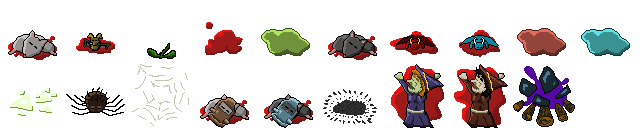
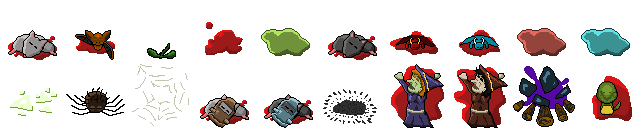
ADD Snake (WIP)

Changed region(s): [[0.9062, 0.5938, 1.0, 0.9375], [0.0938, 0.2188, 0.1875, 0.4688]]

diff --git a/src/WitchBlastGame.cpp b/src/WitchBlastGame.cpp
@@ -39,6 +39,7 @@
 #include "ItemEntity.h"
 #include "WitchEntity.h"
 #include "CauldronEntity.h"
+#include "SnakeEntity.h"
 #include "ArtefactDescriptionEntity.h"
 #include "PnjEntity.h"
 #include "TextEntity.h"
@@ -91,6 +92,7 @@ WitchBlastGame::WitchBlastGame():
   ImageManager::getImageManager()->addImage("media/bubble.png");
   ImageManager::getImageManager()->addImage("media/witch.png");
   ImageManager::getImageManager()->addImage("media/cauldron.png");
+  ImageManager::getImageManager()->addImage("media/snake.png");
 
   ImageManager::getImageManager()->addImage("media/butcher.png");
   ImageManager::getImageManager()->addImage("media/giant_slime.png");
@@ -446,6 +448,11 @@ void WitchBlastGame::updateRunningGame()
         if (gameState == gameStatePlaying && !isPausing) player->selectNextShotType();
       }
 
+      if (event.key.code == input[KeySpell])
+      {
+        if (gameState == gameStatePlaying && !isPausing) player->castSpell();
+      }
+
       if (event.key.code == input[KeyFire])
       {
         if (gameState == gameStatePlaying && !isPausing) firingDirection = player->getFacingDirection();
@@ -788,9 +795,15 @@ void WitchBlastGame::renderDeathScreen()
           monsterSprite.setTextureRect(sf::IntRect(0, 0, 64, 64));
           break;
 
+        case EnemyTypeSnake:
+          monsterSprite.setTexture(*ImageManager::getImageManager()->getImage(IMAGE_SNAKE));
+          monsterSprite.setTextureRect(sf::IntRect(0, 10, 64, 54));
+          dy = 2;
+          break;
+
         case EnemyTypeSlime:
           monsterSprite.setTexture(*ImageManager::getImageManager()->getImage(IMAGE_SLIME));
-          monsterSprite.setTextureRect(sf::IntRect(0, 10, 64, 54));
+          monsterSprite.setTextureRect(sf::IntRect(0, 10, 64, 44));
           break;
 
         case EnemyTypeSlimeRed:
@@ -1144,7 +1157,7 @@ void WitchBlastGame::renderMenu()
       oss << tools::getLabel(inputKeyString[i]) << ": ";
       if (menuKeyIndex == i) oss << tools::getLabel("key_configuration_insert");
       else if (menuKeyIndex > i) oss << tools::getLabel("key_configuration_done");
-      write(oss.str(), 16, xAlign, 285 + i * 32, ALIGN_LEFT, itemColor, app, 1, 1);
+      write(oss.str(), 16, xAlign, 285 + i * 28, ALIGN_LEFT, itemColor, app, 1, 1);
     }
   }
   else
@@ -1796,6 +1809,9 @@ void WitchBlastGame::addMonster(enemyTypeEnum monsterType, float xm, float ym)
   case EnemyTypeBat:
     new BatEntity(xm, ym, false);
     break;
+  case EnemyTypeSnake:
+    new SnakeEntity(xm, ym, SnakeEntity::SnakeTypeNormal, false);
+    break;
   case EnemyTypeEvilFlower:
     new EvilFlowerEntity(xm, ym - 2);
     break;
@@ -2370,6 +2386,7 @@ void WitchBlastGame::saveConfigurationToFile()
   newMap["keyboard_fire_down"] = intToString(input[KeyFireDown]);
   newMap["keyboard_fire_left"] = intToString(input[KeyFireLeft]);
   newMap["keyboard_fire_right"] = intToString(input[KeyFireRight]);
+  newMap["keyboard_spell"] = intToString(input[KeySpell]);
   newMap["keyboard_fire"] = intToString(input[KeyFire]);
   newMap["keyboard_time_control"] = intToString(input[KeyTimeControl]);
   newMap["keyboard_fire_select"] = intToString(input[KeyFireSelect]);
@@ -2391,6 +2408,7 @@ void WitchBlastGame::configureFromFile()
   input[KeyFireLeft]  = sf::Keyboard::Left;
   input[KeyFireRight] = sf::Keyboard::Right;
   input[KeyFire] = sf::Keyboard::Space;
+  input[KeySpell] = sf::Keyboard::Q;
   input[KeyFireSelect] = sf::Keyboard::Tab;
   input[KeyTimeControl] = sf::Keyboard::RShift;
 
@@ -2404,6 +2422,7 @@ void WitchBlastGame::configureFromFile()
   addKey(KeyFireLeft, "keyboard_fire_left");
   addKey(KeyFireRight, "keyboard_fire_right");
   addKey(KeyFire, "keyboard_fire");
+  addKey(KeyFire, "keyboard_spell");
   addKey(KeyTimeControl, "keyboard_time_control");
   addKey(KeyFireSelect, "keyboard_fire_select");
 
@@ -2555,12 +2574,14 @@ void WitchBlastGame::registerLanguage()
     // french keyboard
     input[KeyUp]    = sf::Keyboard::Z;
     input[KeyLeft]  = sf::Keyboard::Q;
+    input[KeySpell]  = sf::Keyboard::A;
   }
   else
   {
     // QWERT / QWERTZ keyboard
     input[KeyUp]    = sf::Keyboard::W;
     input[KeyLeft]  = sf::Keyboard::A;
+    input[KeySpell]  = sf::Keyboard::Q;
   }
 
   input[KeyDown]  = sf::Keyboard::S;

diff --git a/src/SnakeEntity.cpp b/src/SnakeEntity.cpp
@@ -1,0 +1,125 @@
+#include "SnakeEntity.h"
+#include "BoltEntity.h"
+#include "PlayerEntity.h"
+#include "sfml_game/SpriteEntity.h"
+#include "sfml_game/ImageManager.h"
+#include "sfml_game/SoundManager.h"
+#include "Constants.h"
+#include "WitchBlastGame.h"
+
+SnakeEntity::SnakeEntity(float x, float y, snakeTypeEnum snakeType, bool invocated)
+  : EnemyEntity (ImageManager::getImageManager()->getImage(IMAGE_SNAKE), x, y)
+{
+  this->snakeType = snakeType;
+  imagesProLine = 10;
+  this->invocated = invocated;
+
+  //if (snakeType == snakeTypeNormal)
+  {
+    frame = 0;
+    dyingFrame = 8;
+    deathFrame = FRAME_CORPSE_SNAKE;
+    if (invocated) enemyType = EnemyTypeSnake_invocated;
+    else enemyType = EnemyTypeSnake;
+    hp = RAT_HP;
+    creatureSpeed = RAT_SPEED * 0.7f;
+  }
+
+  velocity = Vector2D(creatureSpeed);
+  computeFacingDirection();
+
+  meleeDamages = 2;
+  meleeType = ShotTypePoison;
+
+  type = ENTITY_ENNEMY;
+  bloodColor = BloodRed;
+  shadowFrame = 9;
+
+  timer = -1.0f;
+
+  //agonizingSound = SOUND_RAT_DYING;
+}
+
+void SnakeEntity::animate(float delay)
+{
+  if (age > 0.0f && !isAgonising)
+  {
+    sprite.setColor(sf::Color(255,255,255,255));
+
+    timer = timer - delay;
+    if (timer <= 0.0f)
+    {
+      timer = 0.8f;
+
+      setVelocity(Vector2D(x, y).vectorTo(game().getPlayerPosition(), creatureSpeed ));
+      computeFacingDirection();
+    }
+
+    switch (facingDirection)
+    {
+      case 2: frame = 0; break;
+      case 4: frame = 2; break;
+      case 6: frame = 4; break;
+      case 8: frame = 6; break;
+    }
+    frame += ((int)(age * 3.0f)) % 2;
+  }
+
+  EnemyEntity::animate(delay);
+  z = y + 15;
+}
+
+void SnakeEntity::calculateBB()
+{
+  boundingBox.left = (int)x - 15;
+  boundingBox.width = 30;
+  boundingBox.top = (int)y - 15;
+  boundingBox.height =  30;
+}
+
+void SnakeEntity::collideMapRight()
+{
+  velocity.x = -velocity.x;
+  if (recoil.active) recoil.velocity.x = -recoil.velocity.x;
+  else computeFacingDirection();
+}
+
+void SnakeEntity::collideMapLeft()
+{
+  velocity.x = -velocity.x;
+  if (recoil.active) recoil.velocity.x = -recoil.velocity.x;
+  else computeFacingDirection();
+}
+
+void SnakeEntity::collideMapTop()
+{
+  velocity.y = -velocity.y;
+  if (recoil.active) recoil.velocity.y = -recoil.velocity.y;
+  else computeFacingDirection();
+}
+
+void SnakeEntity::collideMapBottom()
+{
+  velocity.y = -velocity.y;
+  if (recoil.active) recoil.velocity.y = -recoil.velocity.y;
+  else computeFacingDirection();
+}
+
+void SnakeEntity::collideWithEnnemy(GameEntity* collidingEntity)
+{
+  if (recoil.active && recoil.stun) return;
+
+  EnemyEntity* entity = static_cast<EnemyEntity*>(collidingEntity);
+  if (entity->getMovingStyle() == movWalking )
+  {
+    Vector2D vel = Vector2D(entity->getX(), entity->getY()).vectorTo(Vector2D(x, y), 70.0f );
+    giveRecoil(false, vel, 0.3f);
+
+    computeFacingDirection();
+  }
+}
+
+void SnakeEntity::drop()
+{
+  if (!invocated) EnemyEntity::drop();
+}

diff --git a/src/Constants.h b/src/Constants.h
@@ -20,7 +20,7 @@
 #include <string>
 
 const std::string APP_NAME =      "Witch Blast";
-const std::string APP_VERSION =   "0.3.3";
+const std::string APP_VERSION =   "0.3.4";
 
 const std::string CONFIG_FILE =   "config.dat";
 const std::string SAVE_FILE =     "game.sav";
@@ -91,6 +91,7 @@ enum item_images {
   IMAGE_BUBBLE,
   IMAGE_WITCH,
   IMAGE_CAULDRON,
+  IMAGE_SNAKE,
 
   IMAGE_BUTCHER,
   IMAGE_GIANT_SLIME,
@@ -199,6 +200,7 @@ enum corpses_ressources{
   FRAME_CORPSE_WITCH,
   FRAME_CORPSE_WITCH_RED,
   FRAME_CORPSE_CAULDRON,
+  FRAME_CORPSE_SNAKE,
 
   FRAME_CORPSE_KING_RAT,
   FRAME_CORPSE_GIANT_SLIME,
@@ -213,6 +215,7 @@ const int INITIAL_PLAYER_HP = 20;
 const float INITIAL_PLAYER_FIRE_DELAY = 0.7f;
 const float ACQUIRE_DELAY = 2.8f;
 const float UNLOCK_DELAY = 1.0f;
+const float INVINCIBLE_DELAY = 1.5f;
 
 const float INITIAL_BOLT_LIFE = 0.45f;
 const int INITIAL_BOLT_DAMAGES = 8;
@@ -248,7 +251,10 @@ enum enumShotType {
   ShotTypeStone,
   ShotTypeLightning,
   ShotTypeFire,
-  ShotTypeBomb
+  ShotTypePoison,
+  ShotTypeBomb,
+
+  ShotTypeDeterministic
   };
 
 // special shots effects

diff --git a/src/SnakeEntity.h b/src/SnakeEntity.h
@@ -1,0 +1,28 @@
+#ifndef SNAKEENTITY_H
+#define SNAKEENTITY_H
+
+#include "EnemyEntity.h"
+
+class SnakeEntity : public EnemyEntity
+{
+  public:
+    enum snakeTypeEnum { SnakeTypeNormal };
+    SnakeEntity(float x, float y, snakeTypeEnum snakeType, bool invocated);
+    virtual void animate(float delay);
+    virtual void calculateBB();
+
+  protected:
+    virtual void collideMapRight();
+    virtual void collideMapLeft();
+    virtual void collideMapTop();
+    virtual void collideMapBottom();
+
+    virtual void collideWithEnnemy(GameEntity* collidingEntity);
+    virtual void drop();
+  private:
+    snakeTypeEnum snakeType;
+    bool invocated;
+    float timer;
+};
+
+#endif // SNAKEENTITY_H
